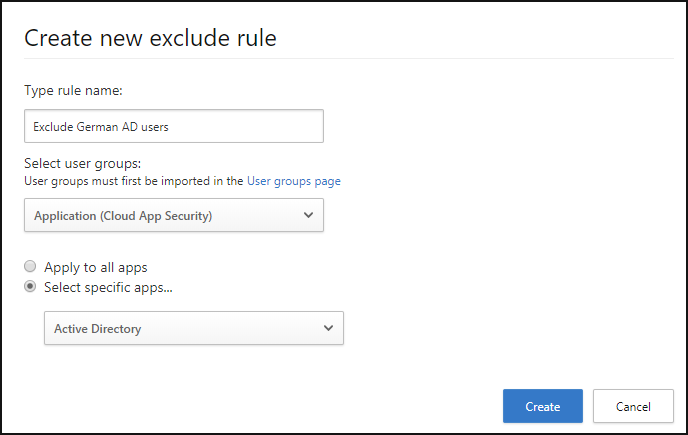
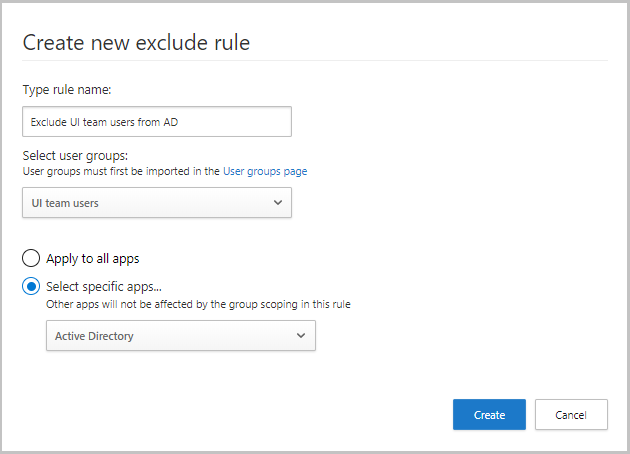
Edit screenshots and text due to UX change

Changed region(s): [[0.0, 0.0, 1.0, 1.0]]

diff --git a/CloudAppSecurityDocs/scoped-deployment.md b/CloudAppSecurityDocs/scoped-deployment.md
@@ -7,7 +7,7 @@ keywords:
 author: rkarlin
 ms.author: rkarlin
 manager: mbaldwin
-ms.date: 5/30/2018
+ms.date: 11/30/2018
 ms.topic: conceptual
 ms.prod:
 ms.service: cloud-app-security
@@ -24,43 +24,54 @@ ms.suite: ems
 #ms.custom:
 
 ---
+# Scoped deployment <a name="scoped-deployment"></a> 
 
 *Applies to: Microsoft Cloud App Security*
 
+Microsoft Cloud App Security enables you to scope your deployment. Scoping allows you to select certain user groups to be monitored for apps or excluded from monitoring.
 
-# Scoped deployment <a name="scoped-deployment"></a> 
+## Include or exclude user groups
 
-Microsoft Cloud App Security enables you to scope your deployment so that only certain user groups are monitored, or so that specific user groups are excluded from monitoring.
+You may not want to use Microsoft Cloud App Security for all the users in your organization. Scoping is especially useful when you want to limit your deployment because of license restrictions. You may also need to limit because of compliance regulations requiring you not monitor users from certain countries. For example, use scoped deployment to only monitor US-based employees. Alternatively, you can avoid showing any activities for your users based in Germany.
 
-You may not want to use Microsoft Cloud App Security for all the users in your organization. This is especially useful when you want to limit your deployment because of license restrictions, or because of compliance regulations that may require you not to monitor users from certain countries. Using the scoped deployment, you could, for example, only monitor US-based employees, or alternatively, avoid showing any activities for your German-based users. 
+- To scope your deployment, you must first [import user groups](user-groups.md) to Microsoft Cloud App Security. By default, you'll see the following groups:
+    - **Application** user group -  A built-in group that enables you to see activities performed by Office 365 and Azure AD applications.
+    - **External users** group - All users who aren't within the [IP address ranges](ip-tags.md) you set for your organization.
+- Setting an include rule will automatically exclude all groups not within the included group. For example, if you set a rule to include all members of the US-office groups, any groups who aren't part of that group won't be monitored.
+- Excluded user groups override included user groups. Meaning that if you include the user group "UK-employees" but exclude "Marketing", marketing members from the UK won't be monitored even if they're members of the group **UK-employees**.
 
-- To scope your deployment, you must first [import user groups](user-groups.md) to Microsoft Cloud App Security. By default, you will see the **Application** user group, which is a built-in group that enables you to see activities performed by Office 365 and Azure AD applications and the **External users** group, which consolidates all users who aren't within the [IP address ranges](ip-tags.md) you set for your organization.
-- Setting an include rule will automatically exclude all groups not within the included group. For example, if you set a rule to include all members of the US-office groups, any groups who are not part of that group will not be monitored.
-- Excluded user groups override included user groups. This means that if you include the user group "UK-employees" but exclude "Marketing", marketing members from the UK will not be monitored even if they are members of the group **UK-employees**.
+1. In the menu bar, click the settings cog and select **Scoped deployment**.  
 
-1. In the menu bar, click the settings cog ![settings icon](./media/settings-icon.png "settings icon") and select **Scoped deployment**.  
+    ![settings icon](./media/settings-icon.png "settings icon")
 
-2. In order to scope your deployment to include or exclude specific groups, you must first [import user groups](user-groups.md) into Microsoft Cloud App Security. 
+2. To scope your deployment to include or exclude specific groups, you must first [import user groups](user-groups.md) into Microsoft Cloud App Security. 
 
-3. To set specific groups to be monitored by Microsoft Cloud App Security, in the **Include** tab, click the plus ![icon](./media/plus-icon.png). <br>In the **Create new include rule** dialog, do the following:
+3. To set specific groups to be monitored by Microsoft Cloud App Security, in the **Include** tab, click the plus icon. 
+    ![icon](./media/plus-icon.png)
+
+4. In the **Create new include rule** dialog, do the following steps:
 
     1. Under **Type rule name**, give the rule a descriptive name.
     2. Under **Select user groups**, select all the groups you want to monitor with Cloud App Security.
-    3. Select whether you want to apply this rule to all connected apps or only to **Specific apps**. If you select **Specific apps**, the rule will only affect monitoring of the apps you select. That means that if you select the group **UK-users** and **Box**, Cloud App Security will only monitor Box activity for users in the UK and for all other apps, Cloud App Security will monitor all activities for all users.
+    3. Select whether you want to apply this rule to all connected apps or only to **Specific apps**. If you select **Specific apps**, the rule will only affect monitoring of the apps you select. For example, if you select the group **UI team users** and **Box**, Cloud App Security will only monitor Box activity for users in your UI team users group and for all other apps, Cloud App Security will monitor all activities for all users.
      
-     ![include rule](./media/include-rule.png)
+        ![include rule](./media/include-rule.png)
 
-4. To set specific groups to be excluded from monitoring, in the **Exclude** tab, click the plus ![icon](./media/plus-icon.png). <br>In the **Create new Exclude rule** dialog, set the following parameters:
+5. To set specific groups to be excluded from monitoring, in the **Exclude** tab, click the plus icon. 
+    
+   ![icon](./media/plus-icon.png)
+
+6. In the **Create new Exclude rule** dialog, set the following parameters:
 
     1. Under **Type rule name**, give the rule a descriptive name.
-    Under **Select user groups**, select all the groups you do not want Cloud App Security to monitor.
-    2. Select whether you want to apply this rule to all connected apps or only to **Specific apps**. If you select **Specific apps**, Cloud App Security will stop monitoring the group you selected only for the apps you select. That means that if you select the group **Germany-users** and **Active Directory**, Cloud App Security will monitor all user activity except Active Directory activities performed by users in Germany.
+    Under **Select user groups**, select all the groups you don't want Cloud App Security to monitor.
+    2. Select whether you want to apply this rule to all connected apps or only to **Specific apps**. If you select **Specific apps**, Cloud App Security will stop monitoring the group you selected only for the apps you select. That means that if you select the group **UI team users** and **Active Directory**, Cloud App Security will monitor all user activity except Active Directory activities  that are performed by UI team users.
     
-    ![exclude rule](./media/exclude-rule.png)
+       ![exclude rule](./media/exclude-rule.png)
 
-The include and exclude rules you create work together to scope the overall monitoring performed by Microsoft Cloud App Security.
+## Example results for include and exclude rules
 
-Here's an example of include and exclude rules you can create, and the final result of what Microsoft Cloud App Security monitors after these rules are running.
+The include and exclude rules you create work together to scope the overall monitoring performed by Microsoft Cloud App Security. Here's an example of include and exclude rules you can create, and the final result of what Microsoft Cloud App Security monitors after these rules are running.
 
 If you create the following rules:
 
@@ -82,9 +93,7 @@ The following user activities are monitored:
 > Other apps will not be affected by the group scoping in these rules.
 > In the example, for Salesforce, all activities are monitored for all user groups.
 
-  
-    
-## See Also  
+## Next steps  
 [Set up Cloud Discovery](set-up-cloud-discovery.md)   
 
 [Premier customers can also choose Cloud App Security directly from the Premier Portal.](https://premier.microsoft.com/)  
